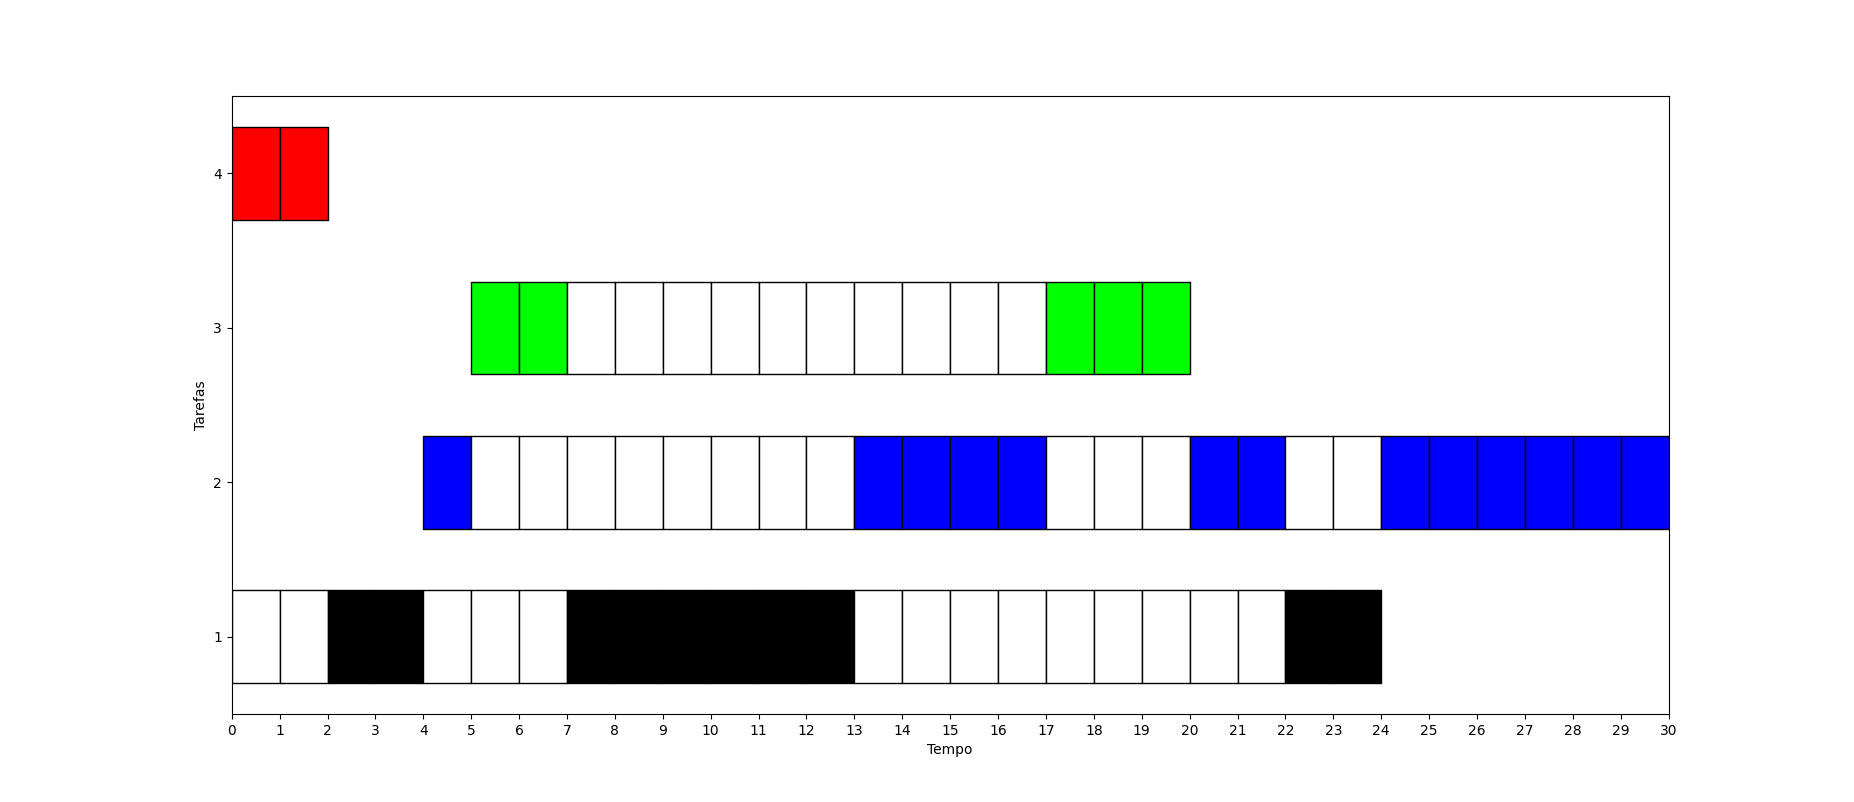
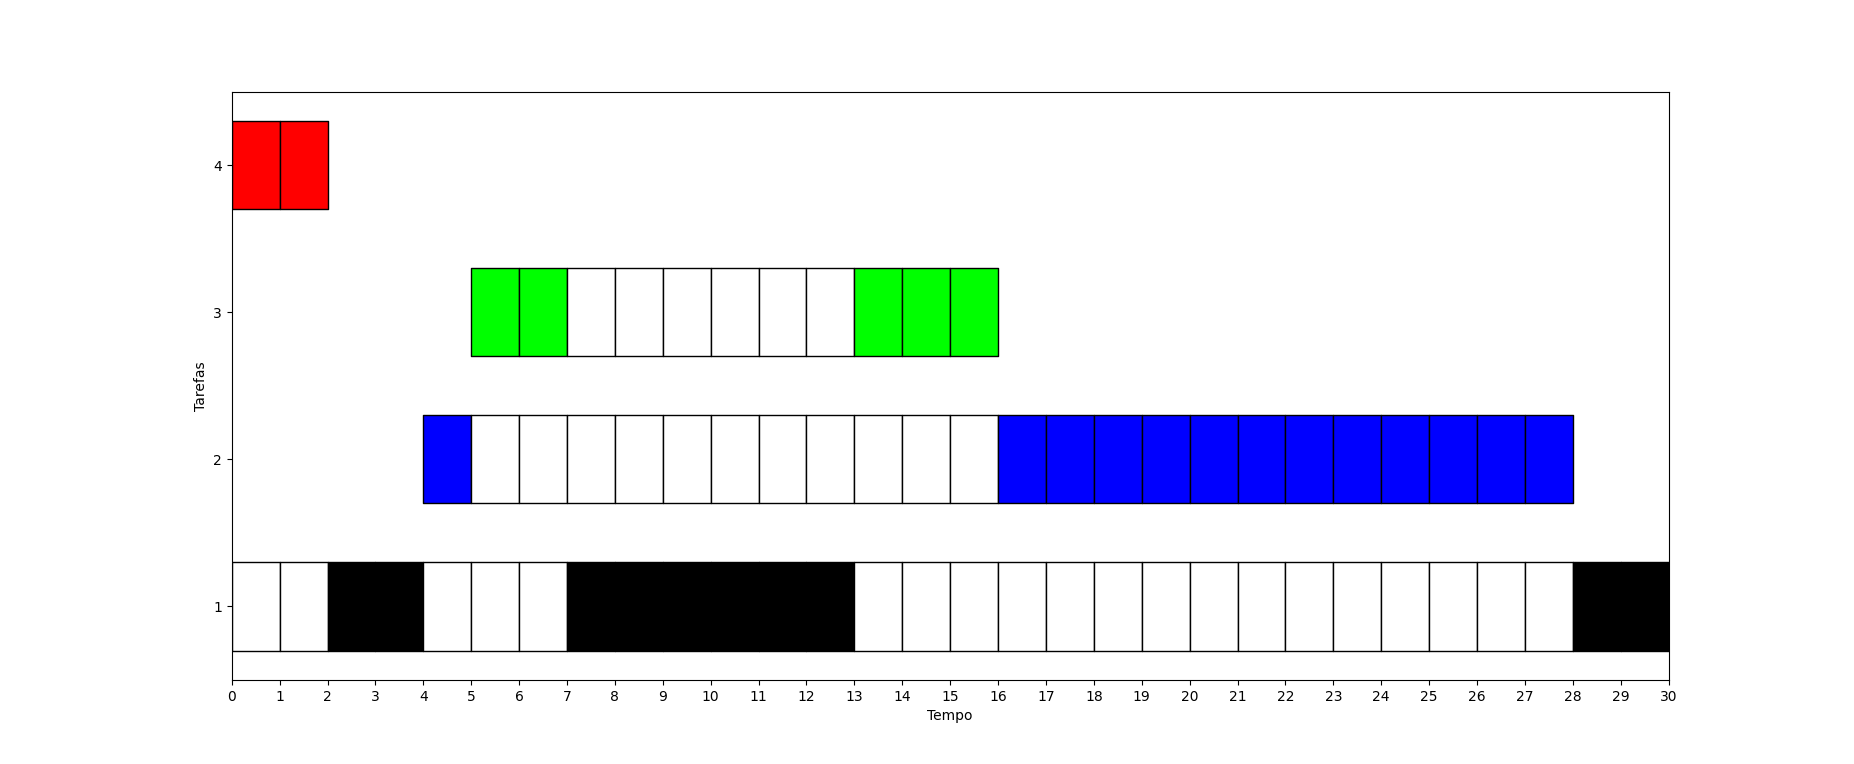
Consertar heranca em prio preemp\'

diff --git a/Escalonador.py b/Escalonador.py
@@ -44,6 +44,9 @@ class Escalonador:
         self.lista_mutex = []
         self.prox_preempcao = False
         self.tarefas.sort(key=lambda tarefa: tarefa.id)
+        self.fazendo_IO = False
+        self.tarefa_trocada = None
+        self.houve_heranca_prioridade = False
 
     # Ativa escalonador escolhido
     def prox_tarefa(self):
@@ -59,6 +62,7 @@ class Escalonador:
 
     # Simula FIFO
     def FIFO(self):
+        self.fazendo_IO = False                     # Variável para Informação no front end
         self.preempcao = self.append_nova_tarefa()  # Verifica se entrou nova tarefa para preemptar
         if self.prox_preempcao:                     # Flag da iteração passada para ter preempção
             self.prox_preempcao = False
@@ -66,6 +70,8 @@ class Escalonador:
         tarefaIO = self.verificar_IO_tarefas()
         self.tempo += 1
         if tarefaIO:
+            self.processador = tarefaIO
+            self.fazendo_IO = True
             self.prox_preempcao = True
             return tarefaIO
         
@@ -98,6 +104,7 @@ class Escalonador:
     
     # Simula SRTF
     def SRTF(self):
+        self.fazendo_IO = False                     # Variável para Informação no front end
         self.preempcao = self.append_nova_tarefa()      # Verifica se entrou nova tarefa para preemptar
         if self.prox_preempcao:
             self.prox_preempcao = False
@@ -105,6 +112,8 @@ class Escalonador:
         tarefaIO = self.verificar_IO_tarefas()
         self.tempo += 1
         if tarefaIO:
+            self.processador = tarefaIO
+            self.fazendo_IO = True
             self.prox_preempcao = True
             return tarefaIO
 
@@ -140,16 +149,18 @@ class Escalonador:
     
     # Simula Prio Preemp
     def prio_preemp(self):
+        self.fazendo_IO = False                     # Variável para Informação no front end
         self.preempcao = self.append_nova_tarefa()  # Verifica se há nova tarefa para preemptar
-        houve_heranca_prioridades = False
+        self.houve_heranca_prioridade = False
         if self.prox_preempcao:
             self.preempcao = True
             self.prox_preempcao = False
         tarefaIO = self.verificar_IO_tarefas()
         self.tempo += 1
         if (tarefaIO):
+            self.processador = tarefaIO
+            self.fazendo_IO = True
             self.prox_preempcao = True
-            self.resetar_quantum()
             return tarefaIO
 
         if self.quantum_restante <= 0:
@@ -170,34 +181,36 @@ class Escalonador:
             self.resetar_quantum()
             self.processador = self.tarefas_prontas[0]
             for tarefa in self.tarefas_prontas:                 # Verifica qual tarefa tem maior prioridade na lista de prontas
-                if (tarefa.prioridade_dinamica > self.processador.prioridade_dinamica):
+                if (tarefa.prioridade > self.processador.prioridade):
                     self.processador = tarefa
 
         mutex = self.processador.verificar_mutex(self.lista_mutex)
         if mutex:
-            tarefa_trocada = self.processador
-            self.processador = self.processador.tratar_heranca_prioridade(mutex)
-            houve_heranca_prioridades = True
+            self.tarefa_trocada = self.processador
+            self.processador = mutex.tarefa
+            self.houve_heranca_prioridade = True
+            self.prox_preempcao = True
 
 
         self.processador.decrementar_duracao(self.lista_mutex)
         self.quantum_restante -= 1
 
-        # Inverte novamente prioridades caso houve herança
-        if houve_heranca_prioridades:
-            self.processador.inverter_prioridades(tarefa_trocada)
-
         return self.processador
     
     def prio_preemp_envelhecimento(self):
+        if self.processador:
+            self.processador.prioridade_dinamica = self.processador.prioridade
+        self.fazendo_IO = False                     # Variável para Informação no front end
         self.preempcao = self.append_nova_tarefa()  # Verifica se há nova tarefa para preemptar
-        houve_heranca_prioridade = False
+        self.houve_heranca_prioridade = False
         if self.prox_preempcao:
             self.prox_preempcao = False
             self.preempcao = True
         tarefaIO = self.verificar_IO_tarefas()
         self.tempo += 1
         if tarefaIO:
+            self.processador = tarefaIO
+            self.fazendo_IO = True
             self.prox_preempcao = True
             return tarefaIO
 
@@ -223,9 +236,9 @@ class Escalonador:
             
         mutex = self.processador.verificar_mutex(self.lista_mutex)
         if mutex:
-            tarefa_trocada = self.processador
-            self.processador = self.processador.tratar_heranca_prioridade(mutex)
-            houve_heranca_prioridade = True
+            self.tarefa_trocada = self.processador
+            self.processador = mutex.tarefa
+            self.houve_heranca_prioridade = True
 
         for tarefa in self.tarefas_prontas:
             if tarefa != self.processador:
@@ -234,11 +247,8 @@ class Escalonador:
         self.processador.decrementar_duracao(self.lista_mutex)
         self.quantum_restante -= 1
 
-        if houve_heranca_prioridade:
-            tarefa_trocada.prioridade_dinamica -= self.alpha
-            self.processador.inverter_prioridades(tarefa_trocada)
-        else:
-            self.processador.prioridade_dinamica = self.processador.prioridade
+        if self.houve_heranca_prioridade:
+            self.tarefa_trocada.resetar_prioridade()
 
         return self.processador
     

diff --git a/UI.py b/UI.py
@@ -202,9 +202,36 @@ class UI:
     # Atualiza o quadro de informações da simulação passo a passo em tempo real
     def atualizar_info_simulacao(self):
         string_tarefas = ""
+        prioridade_dinamica = ""
         for tarefa in self.escalonador.tarefas:
+            if self.escalonador.houve_heranca_prioridade:
+                if tarefa == self.escalonador.processador:
+                    prioridade_dinamica = self.escalonador.tarefa_trocada.prioridade_dinamica
+                elif tarefa == self.escalonador.tarefa_trocada:
+                    prioridade_dinamica = self.escalonador.processador.prioridade_dinamica
+                else:
+                    prioridade_dinamica = tarefa.prioridade_dinamica
+            else:
+                prioridade_dinamica = tarefa.prioridade_dinamica
+
             string_tarefas += f"Tarefa {tarefa.id}; Ingresso: {tarefa.ingresso}; Duração Restante: {tarefa.duracao}; Prioridade: {tarefa.prioridade}" \
-                + f"; Prioridade Dinâmica: {tarefa.prioridade_dinamica}\n"
+                + f"; Prioridade Dinâmica: {prioridade_dinamica}\n"
+            
+        # Informação dos Mutexes
+        if len(self.escalonador.lista_mutex) == 0:
+            string_tarefas += "Nenhum Mutex Criado\n"
+        for mutex in self.escalonador.lista_mutex:
+            string_tarefas += f"Mutex: {mutex.id}; "
+            if mutex.isLocked:
+                string_tarefas += f"Ocupado por Tarefa {mutex.tarefa.id}\n"
+            else:
+                string_tarefas += f"Livre\n"
+
+        # Informações dos IO
+        if self.escalonador.fazendo_IO:
+            string_tarefas += f"Atividade {self.escalonador.processador.id} fazendo I/O\n"
+        else:
+            string_tarefas += "Não há nenhuma operação I/O no momento\n"
 
         self.var_info_simulacao.set(
             f"Relógio: {self.escalonador.tempo}\n" +

diff --git a/Tarefa.py b/Tarefa.py
@@ -34,7 +34,6 @@ class Tarefa:
 
     # Operação de Lock do Mutex, retorna None se funcionou, e o mutex se ele bloqueou
     def lock(self, evento, lista_mutex):
-        print("locking")
         mutex = None
         id_mutex = evento.id_mutex
         success = True
@@ -43,7 +42,6 @@ class Tarefa:
                 mutex = mu
 
         if (not mutex):                                                             # Cria um novo mutex caso não exista
-            print("Criando Mutex")
             mutex = Mutex(id_mutex)
             lista_mutex.append(mutex)
     
@@ -58,11 +56,6 @@ class Tarefa:
             return None
         else:
             return mutex
-
-
-    def tratar_heranca_prioridade(self, mutex):
-        self.inverter_prioridades(mutex.tarefa)
-        return mutex.tarefa
     
     
     def unlock(self, mutex):
@@ -105,3 +98,6 @@ class Tarefa:
         temp = tarefa.prioridade_dinamica
         tarefa.prioridade_dinamica = self.prioridade_dinamica
         self.prioridade_dinamica = temp
+
+    def resetar_prioridade(self):
+        self.prioridade_dinamica = self.prioridade
